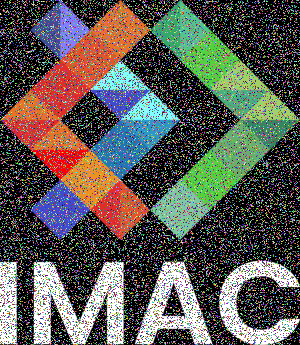
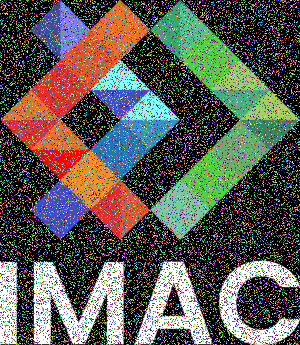
Ajout exo luminosite

diff --git a/src/main.cpp b/src/main.cpp
@@ -99,10 +99,21 @@ sil::Image splitRGB(sil::Image &image)
     return editedImage;
 }
 
-void luminosity(sil::Image &image) {
+void higherLuminosity(sil::Image &image) {
     for(int x{0}; x < image.width(); x++) {
         for(int y{0}; y < image.height(); y++) {
-            
+            image.pixel(x, y).r = std::sqrt(image.pixel(x, y).r);
+            image.pixel(x, y).g = std::sqrt(image.pixel(x, y).g);
+            image.pixel(x, y).b = std::sqrt(image.pixel(x, y).b);
+        }
+    }
+}
+void lowerLuminosity(sil::Image &image) {
+    for(int x{0}; x < image.width(); x++) {
+        for(int y{0}; y < image.height(); y++) {
+            image.pixel(x, y).r = std::pow(image.pixel(x, y).r, 2);
+            image.pixel(x, y).g = std::pow(image.pixel(x, y).g, 2);
+            image.pixel(x, y).b = std::pow(image.pixel(x, y).b, 2);
         }
     }
 }
@@ -155,9 +166,12 @@ int main()
         editedImage.save("output/splitRGB.png");
     }
     {
-        sil::Image image{"images/photo.jpg"};
-        luminosity(image);
-        image.save("output/luminosity.png");
+        sil::Image image1{"images/photo.jpg"};
+        sil::Image image2{"images/photo.jpg"};
+        higherLuminosity(image1);
+        image1.save("output/higherLuminosity.png");
+        lowerLuminosity(image2);
+        image2.save("output/lowerLuminosity.png");
     }
 
     return 0;
